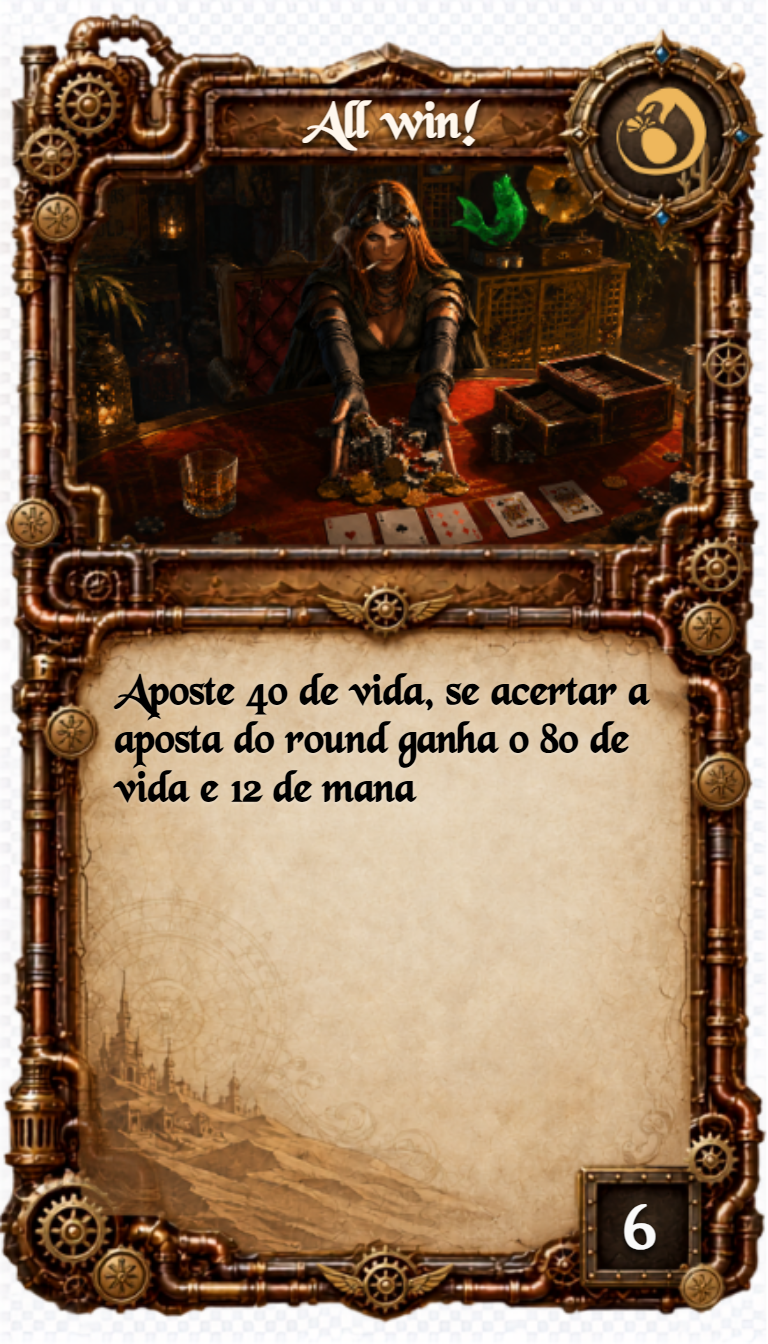
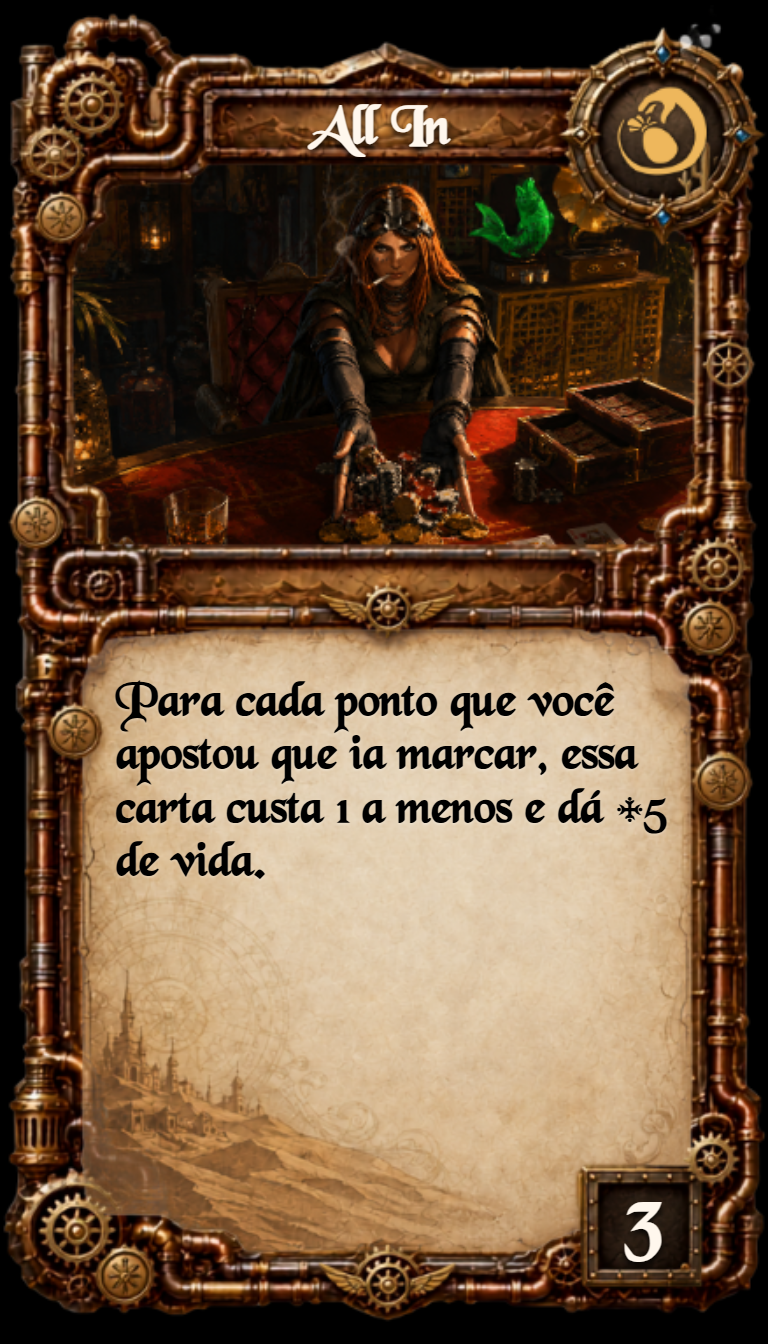
add: added cards to gambler

diff --git a/src/i18n/locales/pt.js b/src/i18n/locales/pt.js
@@ -269,26 +269,33 @@ export const pt = {
         },
         gambler: {
           cards: {
-            allIn: {
+            crossYourFingers: {
               description:
-                'Aumenta a recompensa de uma previsao arriscada, mas cobra vida quando a aposta falha.',
+                'Gira uma roleta entre todos os jogadores, o sorteado ganha 20 de vida, todos os outros perdem 5 vida, Gambler tem +30% de chance se for a que estiver com maior aposta',
               story:
-                'Tudo ou Nada e a carta que o Gambler sorri antes de mostrar, mesmo quando a mesa inteira sabe o risco.',
-              title: 'Tudo ou Nada',
+                'Gambler já perdeu um dente em um jogo de roleta.',
+              title: 'Cruze os dedos',
             },
-            lastCoin: {
+            isRightfullyMine: {
               description:
-                'Se for a ultima chance, o Gambler troca estabilidade por uma jogada que pode virar a mesa.',
+                'No fim da rodada, compre uma carta para cada aposta acertada sua e descarte uma carta para cada aposta errada',
               story:
                 'A ultima moeda dele ja comprou fugas, vitorias impossiveis e algumas dividas que ainda respiram.',
-              title: 'Ultima Moeda',
+              title: 'É meu por direito',
             },
-            loadedDice: {
+            allIn: {
               description:
-                'Manipula uma disputa curta e cria vantagem quando o jogador aceita um risco calculado.',
+                'Para cada ponto que você apostou que ia marcar, essa carta custa 1 a menos e dá +5 de vida.',
               story:
-                'Os dados viciados nunca caem por acaso; eles caem onde o Gambler preparou a historia para terminar.',
-              title: 'Dados Viciados',
+                'O Gambler tem uma história de vitorias e derrotas, mas sempre encontra uma forma de continuar jogando.',
+              title: 'Tudo ou Nada',
+            },
+            guabiru: {
+              description:
+                'Jogador alvo tem +2 em apostas no turno',
+              story:
+                'Assim como Gambler, Guabiru gosta de uma boa aposta.',
+              title: 'Guabiru',
             },
           },
           deck: 'Apostas e blefes',

diff --git a/src/i18n/locales/en.js b/src/i18n/locales/en.js
@@ -269,26 +269,33 @@ export const en = {
         },
         gambler: {
           cards: {
-            allIn: {
+            crossYourFingers: {
               description:
                 'Raises the reward for a risky prediction, but costs life when the bet fails.',
               story:
                 'All In is the card the Gambler smiles before revealing, even when the whole table knows the risk.',
               title: 'All In',
             },
-            lastCoin: {
+            isRightfullyMine: {
               description:
-                'On the last chance, the Gambler trades stability for a play that can flip the table.',
+                'No fim da rodada, compre uma carta para cada aposta acertada sua e descarte uma carta para cada aposta errada',
               story:
                 'His last coin has bought escapes, impossible wins, and a few debts that are still breathing.',
-              title: 'Last Coin',
+              title: 'Is Rightfully Mine',
             },
-            loadedDice: {
+            allIn: {
               description:
                 'Manipulates a short clash and creates advantage when the player accepts calculated risk.',
               story:
                 'The loaded dice never land by chance; they land where the Gambler prepared the story to end.',
               title: 'Loaded Dice',
+            },
+            guabiru: {
+              description:
+                'Jogador alvo tem +2 em apostas no turno',
+              story:
+                '',
+              title: 'Guabiru',
             },
           },
           deck: 'Bets and bluffs',

diff --git a/src/app/routes/Characters/characterData.js b/src/app/routes/Characters/characterData.js
@@ -6,6 +6,7 @@ import artemisCard4 from '@/assets/characters/artemis/cards/4.png';
 import artemisCard5 from '@/assets/characters/artemis/cards/5.png';
 import conjuruzBanner from '@/assets/characters/conjuruz/banner.png';
 import gamblerBanner from '@/assets/characters/gambler/banner.png';
+import gamblerCard1 from '@/assets/characters/gambler/cards/1.png'; 
 import gamblerCard2 from '@/assets/characters/gambler/cards/2.png';
 import gamblerCard3 from '@/assets/characters/gambler/cards/3.png';
 import gamblerCard5 from '@/assets/characters/gambler/cards/5.png';
@@ -39,9 +40,10 @@ export const mercenaries = [
     accentClass: 'from-red-500/25 via-black/25 to-yellow-500/20',
     banner: gamblerBanner,
     cards: [
-      { id: 'loadedDice', image: gamblerCard2, manaCost: 2 },
-      { id: 'allIn', image: gamblerCard3, manaCost: 5 },
-      { id: 'lastCoin', image: gamblerCard5, manaCost: 1 },
+      { id: 'isRightfullyMine', image: gamblerCard1, manaCost: 2 },
+      { id: 'allIn', image: gamblerCard2, manaCost: 5 },
+      { id: 'crossYourFingers', image: gamblerCard4, manaCost: 3 },
+      { id: 'guabiru', image: gamblerCard5, manaCost: 1 },
     ],
     markerClass: 'bg-red-500',
     path: '/mercenaries/Gambler',